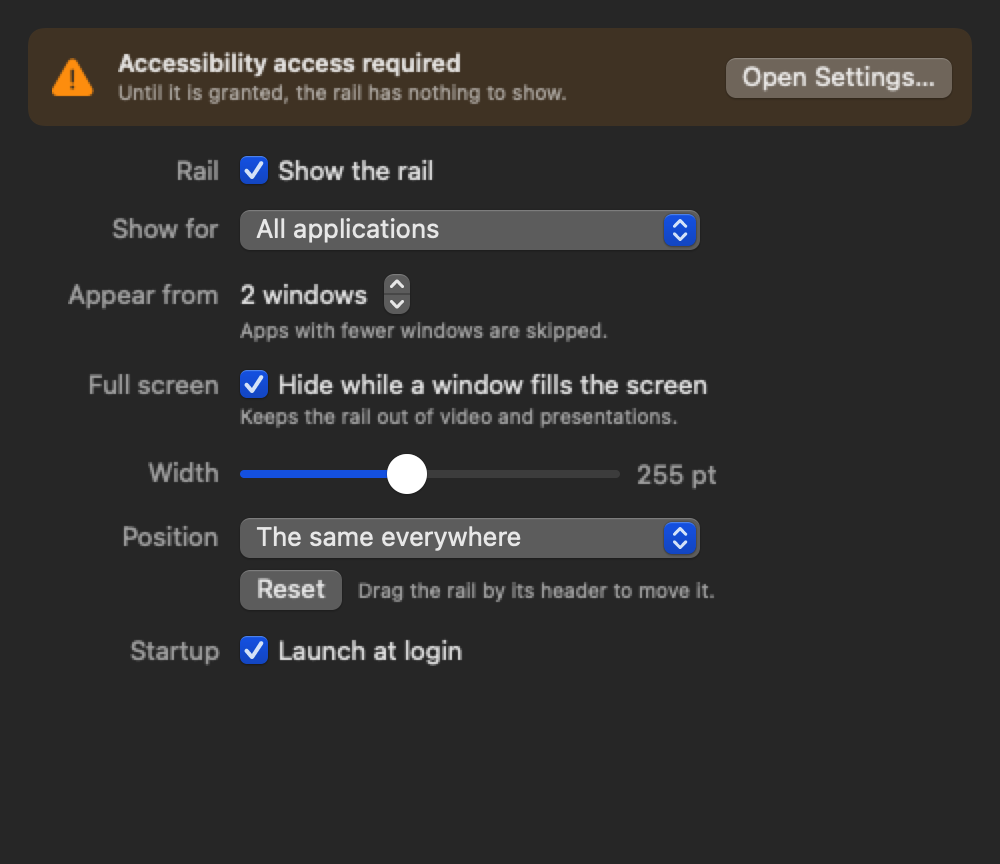
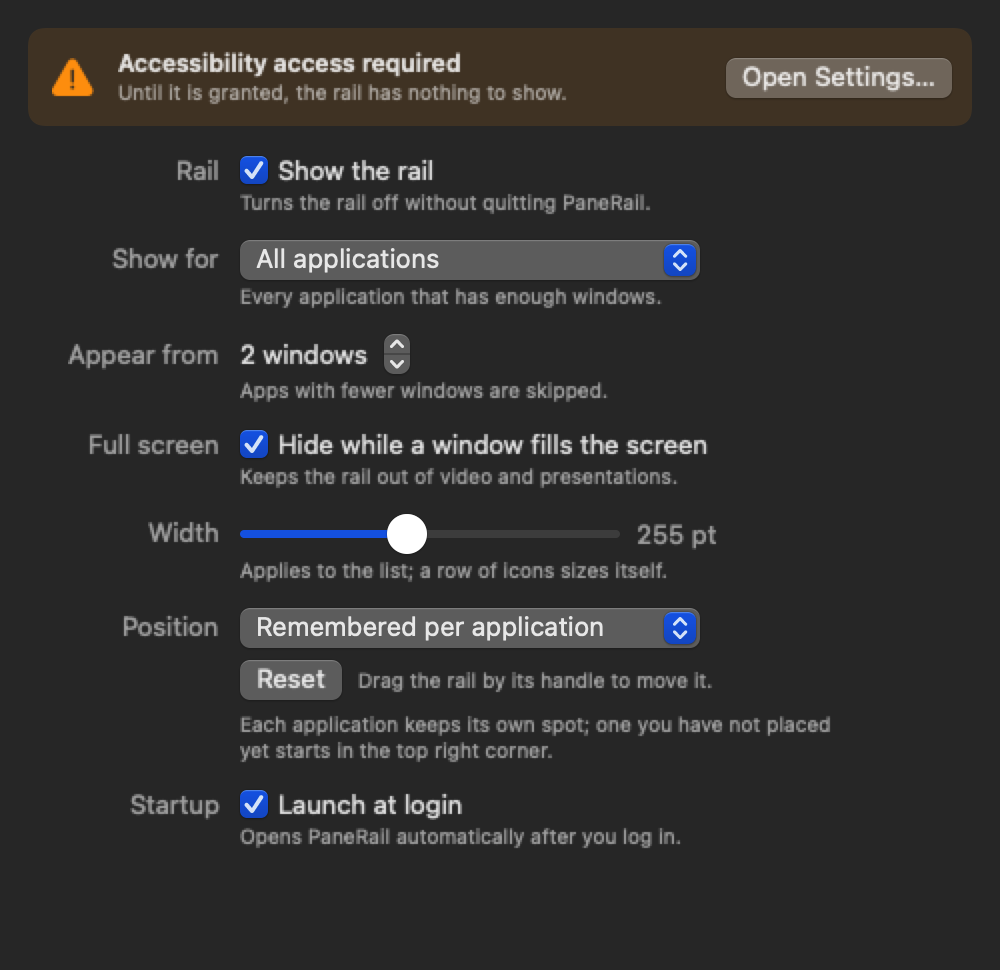
Per-application positions by default, and an exclusion mode
Positions are now remembered per application out of the box, and an
application the rail has never been placed for opens at the default spot
rather than inheriting wherever the rail happened to be left for something
else — landing in a place the user never chose for the app in front of them
was the more surprising of the two behaviours.

That default spot is now the top right corner rather than the middle of the
right edge, which is where the rail grows downwards from anyway.

Show for gains "All except selected", so the Apps tab can mean either the
list of applications that get a rail or the list that does not. The tab says
which it currently means instead of leaving it to be remembered.

Every setting in General now carries a one-line explanation; several rows
had none, and two of them explain themselves differently depending on what
is selected.

diff --git a/Sources/PaneRail/UI/SettingsView.swift b/Sources/PaneRail/UI/SettingsView.swift
@@ -15,7 +15,7 @@ struct SettingsView: View {
                 .foregroundStyle(.tertiary)
         }
         .padding(14)
-        .frame(width: 500, height: 492)
+        .frame(width: 500, height: 545)
     }
 
     private var tabs: some View {
@@ -86,17 +86,24 @@ struct GeneralSettingsView: View {
             Grid(alignment: .leadingFirstTextBaseline, horizontalSpacing: 10, verticalSpacing: 12) {
                 GridRow {
                     label("Rail")
-                    Toggle("Show the rail", isOn: $preferences.isEnabled)
+                    VStack(alignment: .leading, spacing: 2) {
+                        Toggle("Show the rail", isOn: $preferences.isEnabled)
+                        hint("Turns the rail off without quitting PaneRail.")
+                    }
                 }
 
                 GridRow {
                     label("Show for")
-                    Picker("", selection: $preferences.mode) {
-                        Text("All applications").tag(RailMode.allApps)
-                        Text("Only selected applications").tag(RailMode.listedApps)
+                    VStack(alignment: .leading, spacing: 2) {
+                        Picker("", selection: $preferences.mode) {
+                            Text("All applications").tag(RailMode.allApps)
+                            Text("Only selected applications").tag(RailMode.listedApps)
+                            Text("All except selected").tag(RailMode.exceptListedApps)
+                        }
+                        .labelsHidden()
+                        .frame(width: 230, alignment: .leading)
+                        hint(modeHint)
                     }
-                    .labelsHidden()
-                    .frame(width: 230, alignment: .leading)
                 }
 
                 GridRow {
@@ -106,11 +113,9 @@ struct GeneralSettingsView: View {
                             Text("\(preferences.minimumWindows) window\(preferences.minimumWindows == 1 ? "" : "s")")
                         }
                         .frame(width: 130, alignment: .leading)
-                        Text(preferences.minimumWindows == 1
+                        hint(preferences.minimumWindows == 1
                              ? "Shown even for single-window apps."
                              : "Apps with fewer windows are skipped.")
-                            .font(.caption)
-                            .foregroundStyle(.secondary)
                     }
                 }
 
@@ -118,23 +123,24 @@ struct GeneralSettingsView: View {
                     label("Full screen")
                     VStack(alignment: .leading, spacing: 2) {
                         Toggle("Hide while a window fills the screen", isOn: $preferences.hidesInFullScreen)
-                        Text("Keeps the rail out of video and presentations.")
-                            .font(.caption)
-                            .foregroundStyle(.secondary)
+                        hint("Keeps the rail out of video and presentations.")
                     }
                 }
 
                 GridRow {
                     label("Width")
-                    HStack(spacing: 8) {
-                        Slider(
-                            value: $preferences.width,
-                            in: Preferences.minimumWidth...Preferences.maximumWidth
-                        )
-                        .frame(width: 190)
-                        Text("\(Int(preferences.width)) pt")
-                            .monospacedDigit()
-                            .foregroundStyle(.secondary)
+                    VStack(alignment: .leading, spacing: 2) {
+                        HStack(spacing: 8) {
+                            Slider(
+                                value: $preferences.width,
+                                in: Preferences.minimumWidth...Preferences.maximumWidth
+                            )
+                            .frame(width: 190)
+                            Text("\(Int(preferences.width)) pt")
+                                .monospacedDigit()
+                                .foregroundStyle(.secondary)
+                        }
+                        hint("Applies to the list; a row of icons sizes itself.")
                     }
                 }
 
@@ -150,10 +156,9 @@ struct GeneralSettingsView: View {
 
                         HStack(spacing: 8) {
                             Button("Reset") { preferences.resetPositions() }
-                            Text("Drag the rail by its header to move it.")
-                                .font(.caption)
-                                .foregroundStyle(.secondary)
+                            hint("Drag the rail by its handle to move it.")
                         }
+                        hint(positionHint)
                     }
                 }
 
@@ -165,6 +170,7 @@ struct GeneralSettingsView: View {
                                 launchAtLoginFailed = !LaunchAtLogin.set(newValue)
                                 if launchAtLoginFailed { launchAtLogin = LaunchAtLogin.isEnabled }
                             }
+                        hint("Opens PaneRail automatically after you log in.")
                         if launchAtLoginFailed {
                             Text("macOS refused the login item — expected for unsigned builds outside /Applications.")
                                 .font(.caption)
@@ -177,6 +183,31 @@ struct GeneralSettingsView: View {
 
             Spacer(minLength: 0)
         }
+    }
+
+    private var modeHint: String {
+        switch preferences.mode {
+        case .allApps:
+            return "Every application that has enough windows."
+        case .listedApps:
+            return "Only the applications ticked in the Apps tab."
+        case .exceptListedApps:
+            return "Every application except the ones ticked in the Apps tab."
+        }
+    }
+
+    private var positionHint: String {
+        preferences.positionMode == .perApp
+            ? "Each application keeps its own spot; one you have not placed yet starts in the top right corner."
+            : "One spot for everything, wherever you last dropped the rail."
+    }
+
+    private func hint(_ text: String) -> some View {
+        Text(text)
+            .font(.caption)
+            .foregroundStyle(.secondary)
+            .fixedSize(horizontal: false, vertical: true)
+            .frame(width: 300, alignment: .leading)
     }
 
     private func label(_ text: String) -> some View {
@@ -192,11 +223,9 @@ struct AppsSettingsView: View {
 
     var body: some View {
         VStack(alignment: .leading, spacing: 8) {
-            Text(preferences.mode == .listedApps
-                 ? "The rail appears only for the applications ticked below."
-                 : "The rail currently appears for every application. Switch to “Only selected applications” in General to use this list.")
+            Text(listPurpose)
                 .font(.callout)
-                .foregroundStyle(preferences.mode == .listedApps ? Color.primary : Color.secondary)
+                .foregroundStyle(preferences.mode == .allApps ? Color.secondary : Color.primary)
                 .fixedSize(horizontal: false, vertical: true)
 
             List {
@@ -218,7 +247,7 @@ struct AppsSettingsView: View {
                 }
             }
             .listStyle(.bordered(alternatesRowBackgrounds: true))
-            .disabled(preferences.mode != .listedApps)
+            .disabled(preferences.mode == .allApps)
 
             HStack {
                 Button("Refresh") { reload() }
@@ -229,6 +258,20 @@ struct AppsSettingsView: View {
             }
         }
         .onAppear(perform: reload)
+    }
+
+    /// What ticking a box in this list actually does depends on the mode
+    /// chosen in General, so the list says so rather than leaving the user to
+    /// remember.
+    private var listPurpose: String {
+        switch preferences.mode {
+        case .allApps:
+            return "The rail currently appears for every application. Choose “Only selected applications” or “All except selected” in General to use this list."
+        case .listedApps:
+            return "The rail appears only for the applications ticked below."
+        case .exceptListedApps:
+            return "The rail appears everywhere except the applications ticked below."
+        }
     }
 
     private var selectionSummary: String {

diff --git a/Sources/PaneRailKit/Preferences.swift b/Sources/PaneRailKit/Preferences.swift
@@ -6,7 +6,9 @@ import Foundation
 public enum RailPositionMode: String, CaseIterable, Identifiable, Codable {
     /// One position, wherever the rail was last dropped.
     case shared
-    /// Each application remembers where its rail was left.
+    /// Each application remembers where its rail was left. An application that
+    /// has not been placed yet opens at the default position rather than
+    /// borrowing another application's.
     case perApp
 
     public var id: String { rawValue }
@@ -18,6 +20,8 @@ public enum RailMode: String, CaseIterable, Identifiable, Codable {
     case allApps
     /// Only apps the user explicitly added.
     case listedApps
+    /// Every app except the ones the user added.
+    case exceptListedApps
 
     public var id: String { rawValue }
 }
@@ -145,7 +149,7 @@ public final class Preferences: ObservableObject {
         appSpecificProviders = defaults.object(forKey: Key.appSpecificProviders) as? Bool ?? false
         hidesInFullScreen = defaults.object(forKey: Key.hidesInFullScreen) as? Bool ?? true
         positionMode = (defaults.string(forKey: Key.positionMode)
-            .flatMap(RailPositionMode.init(rawValue:))) ?? .shared
+            .flatMap(RailPositionMode.init(rawValue:))) ?? .perApp
         vivaldiIconStrip = defaults.object(forKey: Key.vivaldiIconStrip) as? Bool ?? false
         storedWidth = min(
             max(defaults.object(forKey: Key.width) as? Double ?? Self.defaultWidth, Self.minimumWidth),
@@ -177,9 +181,10 @@ public final class Preferences: ObservableObject {
     /// `nil` until the user drags the rail somewhere, which is the signal to
     /// fall back to the default placement.
     ///
-    /// This is also the "last used" position: in per-application mode an app
-    /// with no position of its own opens where the rail was most recently left,
-    /// which is far less surprising than having it jump back to the edge.
+    /// Used as the one position in shared mode. Per-application mode keeps its
+    /// own entries and deliberately does not fall back to this: inheriting some
+    /// other application's placement puts the rail somewhere the user never
+    /// chose for the app they are looking at.
     public var savedOrigin: CGPoint? {
         get { point(forKey: Key.originX, Key.originY) }
         set {
@@ -194,18 +199,15 @@ public final class Preferences: ObservableObject {
         case .shared:
             return savedOrigin
         case .perApp:
-            guard let bundleIdentifier, let stored = originsByApp[bundleIdentifier] else {
-                return savedOrigin
-            }
-            return stored
+            guard let bundleIdentifier else { return nil }
+            return originsByApp[bundleIdentifier]
         }
     }
 
     /// Records where the user dropped the rail.
     ///
-    /// The shared position is updated in both modes, so it always means "the
-    /// last place the user chose" and can serve as the fallback for an app that
-    /// has no position yet.
+    /// The shared position is updated in both modes, so switching to shared
+    /// mode lands the rail where it was last dropped rather than at the edge.
     public func setOrigin(_ origin: CGPoint, for bundleIdentifier: String?) {
         if positionMode == .perApp, let bundleIdentifier {
             var origins = originsByApp

diff --git a/Tests/PaneRailKitTests/PreferencesTests.swift b/Tests/PaneRailKitTests/PreferencesTests.swift
@@ -145,6 +145,7 @@ final class PreferencesTests: XCTestCase {
 
     func testSharedModeGivesEveryAppTheSamePosition() {
         let preferences = makePreferences()
+        preferences.positionMode = .shared
         preferences.setOrigin(CGPoint(x: 10, y: 20), for: "com.example.a")
 
         XCTAssertEqual(preferences.origin(for: "com.example.a"), CGPoint(x: 10, y: 20))
@@ -161,14 +162,15 @@ final class PreferencesTests: XCTestCase {
         XCTAssertEqual(preferences.origin(for: "com.example.b"), CGPoint(x: 90, y: 80))
     }
 
-    /// An app seen for the first time should appear where the rail was last
-    /// left, not jump back to the screen edge.
-    func testAnAppWithNoPositionInheritsTheLastOneUsed() {
+    /// An app the rail has never been placed for starts at the default
+    /// position. Inheriting another application's spot would put it somewhere
+    /// the user never chose for the app in front of them.
+    func testAnAppWithNoPositionOfItsOwnHasNone() {
         let preferences = makePreferences()
-        preferences.positionMode = .perApp
         preferences.setOrigin(CGPoint(x: 33, y: 44), for: "com.example.a")
 
-        XCTAssertEqual(preferences.origin(for: "com.example.newcomer"), CGPoint(x: 33, y: 44))
+        XCTAssertNil(preferences.origin(for: "com.example.newcomer"))
+        XCTAssertNil(preferences.origin(for: nil))
     }
 
     func testPerAppPositionsSurviveARestart() {
@@ -209,7 +211,7 @@ final class PreferencesTests: XCTestCase {
 
     func testPositionDefaults() {
         let preferences = makePreferences()
-        XCTAssertEqual(preferences.positionMode, .shared)
+        XCTAssertEqual(preferences.positionMode, .perApp, "positions are per application unless asked otherwise")
         XCTAssertFalse(preferences.vivaldiIconStrip)
     }
 

diff --git a/Tests/PaneRailKitTests/RailVisibilityTests.swift b/Tests/PaneRailKitTests/RailVisibilityTests.swift
@@ -100,6 +100,25 @@ final class RailVisibilityTests: XCTestCase {
         ))
     }
 
+    func testExceptListedModeHidesOnlyTheTickedApps() {
+        let listed: Set<String> = ["com.example.editor"]
+        XCTAssertFalse(RailVisibility.shouldShow(
+            input(mode: .exceptListedApps, listed: listed)
+        ))
+        XCTAssertTrue(RailVisibility.shouldShow(
+            input(bundleID: "com.example.other", mode: .exceptListedApps, listed: listed)
+        ))
+    }
+
+    func testExceptListedModeStillRespectsExclusionsAndThreshold() {
+        XCTAssertFalse(RailVisibility.shouldShow(
+            input(bundleID: "dev.kafeg.panerail", mode: .exceptListedApps)
+        ))
+        XCTAssertFalse(RailVisibility.shouldShow(
+            input(itemCount: 1, mode: .exceptListedApps, minimumItems: 2)
+        ))
+    }
+
     func testListedModeStillRespectsThreshold() {
         XCTAssertFalse(RailVisibility.shouldShow(
             input(itemCount: 1, mode: .listedApps, minimumItems: 2, listed: ["com.example.editor"])

diff --git a/Tests/PaneRailKitTests/RailGeometryTests.swift b/Tests/PaneRailKitTests/RailGeometryTests.swift
@@ -87,11 +87,11 @@ final class RailGeometryTests: XCTestCase {
         XCTAssertEqual(clamped, CGPoint(x: screen.minX, y: screen.minY))
     }
 
-    func testDefaultOriginSitsAtRightEdgeAndIsVerticallyCentred() {
+    func testDefaultOriginSitsInTheTopRightCorner() {
         let size = CGSize(width: 220, height: 200)
         let origin = RailGeometry.defaultOrigin(size: size, in: screen)
         XCTAssertEqual(origin.x, screen.maxX - size.width - RailGeometry.screenMargin)
-        XCTAssertEqual(origin.y, screen.midY - size.height / 2, accuracy: 0.001)
+        XCTAssertEqual(origin.y, screen.maxY - size.height - RailGeometry.screenMargin, accuracy: 0.001)
     }
 
     func testDefaultOriginRespectsScreenOffset() {

diff --git a/Sources/PaneRailKit/RailGeometry.swift b/Sources/PaneRailKit/RailGeometry.swift
@@ -71,11 +71,12 @@ public enum RailGeometry {
         }
     }
 
-    /// First-run placement: right edge, vertically centred.
+    /// Placement for an app the rail has not been positioned for: the top
+    /// right corner, clear of the menu bar.
     public static func defaultOrigin(size: CGSize, in visibleFrame: CGRect) -> CGPoint {
         let origin = CGPoint(
             x: visibleFrame.maxX - size.width - screenMargin,
-            y: visibleFrame.midY - size.height / 2
+            y: visibleFrame.maxY - size.height - screenMargin
         )
         return clamp(origin: origin, size: size, into: visibleFrame)
     }

diff --git a/Sources/PaneRail/UI/SettingsWindowController.swift b/Sources/PaneRail/UI/SettingsWindowController.swift
@@ -22,7 +22,7 @@ final class SettingsWindowController {
 
     private func makeWindow() -> NSWindow {
         let window = NSWindow(
-            contentRect: NSRect(x: 0, y: 0, width: 500, height: 492),
+            contentRect: NSRect(x: 0, y: 0, width: 500, height: 545),
             styleMask: [.titled, .closable, .miniaturizable],
             backing: .buffered,
             defer: false

diff --git a/Sources/PaneRail/PreviewRenderer.swift b/Sources/PaneRail/PreviewRenderer.swift
@@ -144,7 +144,7 @@ enum PreviewRenderer {
         }
         .padding(14)
 
-        let size = CGSize(width: 500, height: 432)
+        let size = CGSize(width: 500, height: 485)
         let hosting = NSHostingView(rootView: view)
         hosting.frame = CGRect(origin: .zero, size: size)
 

diff --git a/Sources/PaneRailKit/RailVisibility.swift b/Sources/PaneRailKit/RailVisibility.swift
@@ -70,6 +70,8 @@ public enum RailVisibility {
             return true
         case .listedApps:
             return input.listedBundleIDs.contains(bundleID)
+        case .exceptListedApps:
+            return !input.listedBundleIDs.contains(bundleID)
         }
     }
 }

diff --git a/README.md b/README.md
@@ -78,11 +78,11 @@ permission state is the first thing the window reports, and it updates live.
 
 | Setting | What it does |
 | --- | --- |
-| Show for | All applications, or only the ones ticked in the Apps tab |
+| Show for | Every application, only the ones ticked in the Apps tab, or everything except those |
 | Appear from *n* windows | The rail stays hidden below this many windows. Set it to 1 to always show it |
 | Hide in full screen | Gets out of the way while a window fills the screen. On by default |
 | Width | 160–380 pt |
-| Position | One position for everything, or one remembered per application. An app seen for the first time opens where the rail was last left |
+| Position | One remembered per application by default, or one position for everything. An application the rail has not been placed for opens in the top right corner |
 | Launch at login | Registers a login item via `SMAppService` |
 
 ## App-specific states (experimental)
